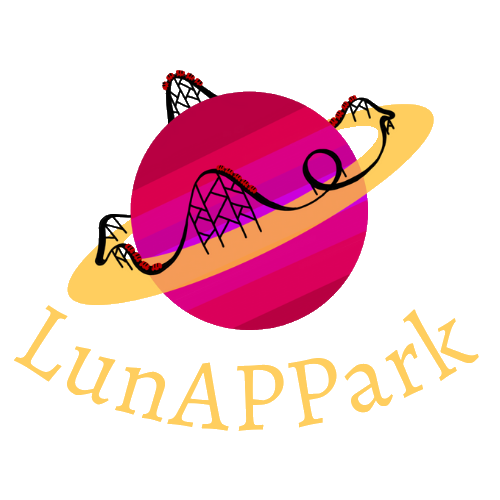
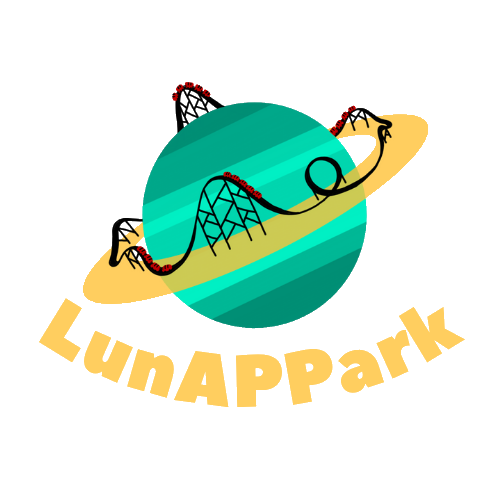
matt

Changed region(s): [[0.03, 0.12, 0.96, 0.87], [0.81, 0.3, 0.84, 0.33]]

diff --git a/pages/navbar.html b/pages/navbar.html
@@ -12,12 +12,12 @@
     <body>
         <header>
             
-            <a class="logo" href="#page-top"><img src="../../src/assets/img/logo.png" width="100px" height="90px" object-fit="scale-down" alt="logo"></a>
+            <a class="logo" href="#page-top"><img src="../src/assets/img/LunAPPark.png" width="100px" height="90px" object-fit="scale-down" alt="logo"></a>
             <nav>
                 <ul class="nav__links">
                     <li><a href="#">Scopri il Parco</a></li>
-                    <li><a href="#">Projects</a></li>
                     <li><a href="#">Calendario e tariffe</a></li>
+                    <li><a href="#">Info</a></li>
                 </ul>
             </nav>
             <a class="cta" href="#">Acquista e prenota
@@ -27,9 +27,9 @@
         <div class="overlay">
             <a class="close">&times;</a>
             <div class="overlay__content">
-                <a href="#">Services</a>
-                <a href="#">Projects</a>
-                <a href="#">About</a>
+                <a href="#">Scopri il Parco</a>
+                <a href="#">Calendario e tariffe</a>
+                <a href="#">Info</a>
             </div>
         </div>
         <script type="text/javascript" src="mobile.js"></script>
